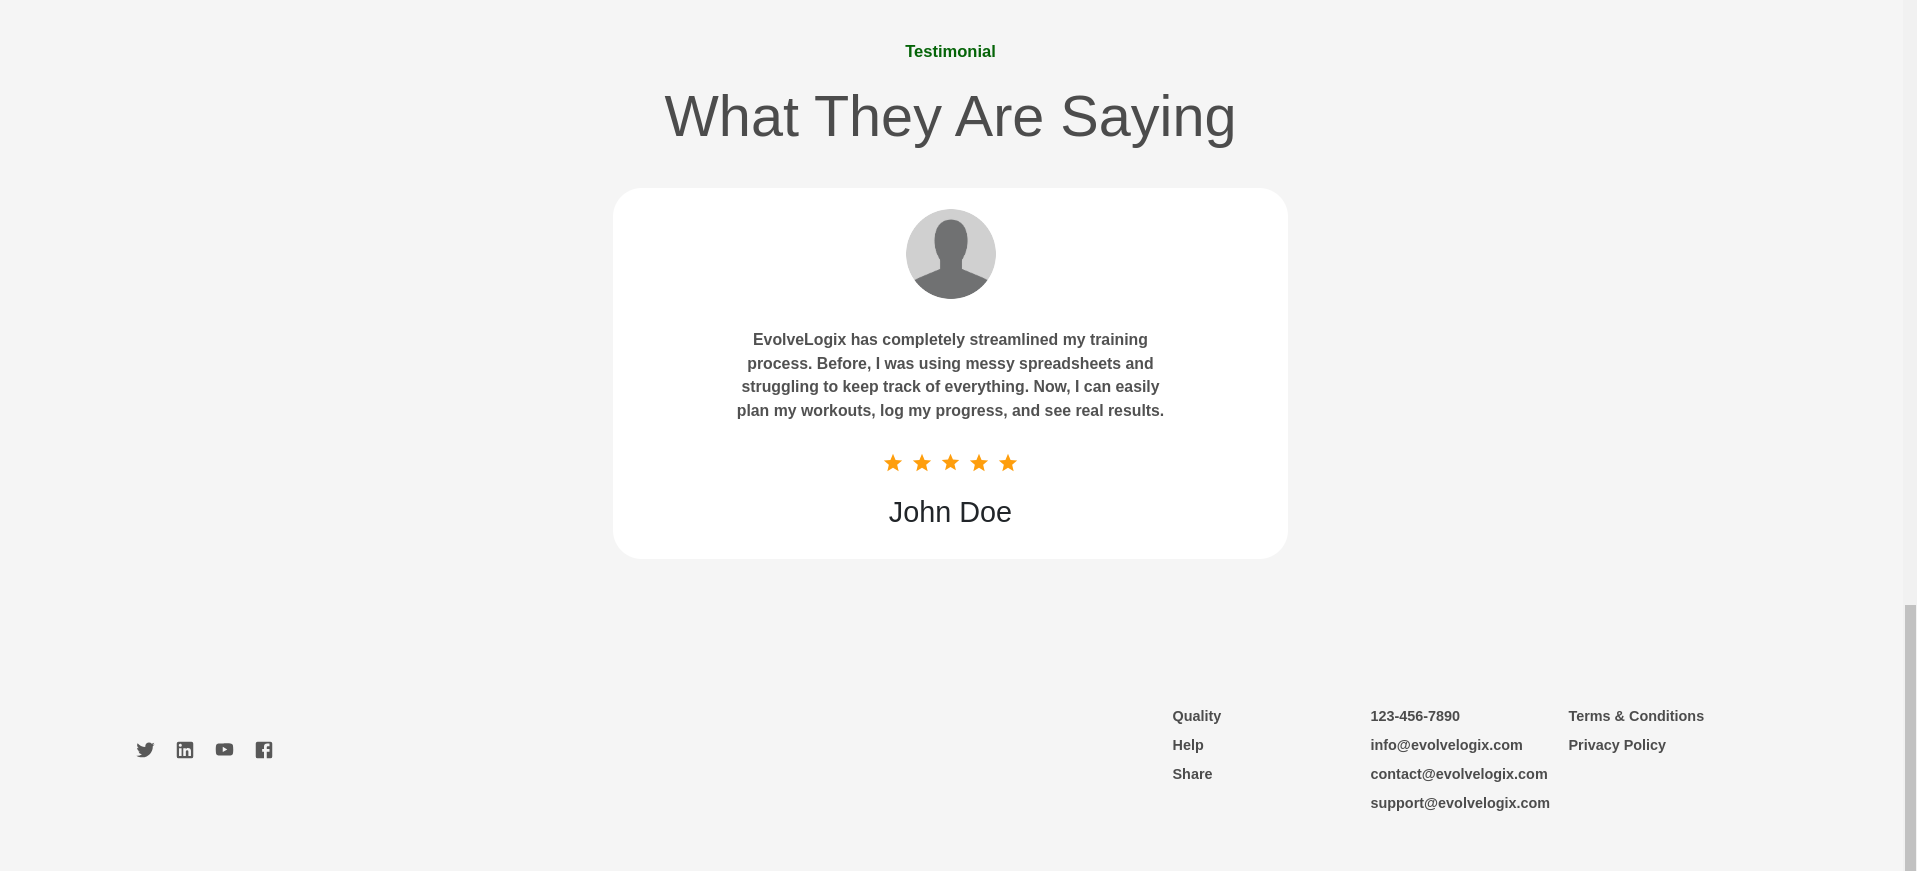
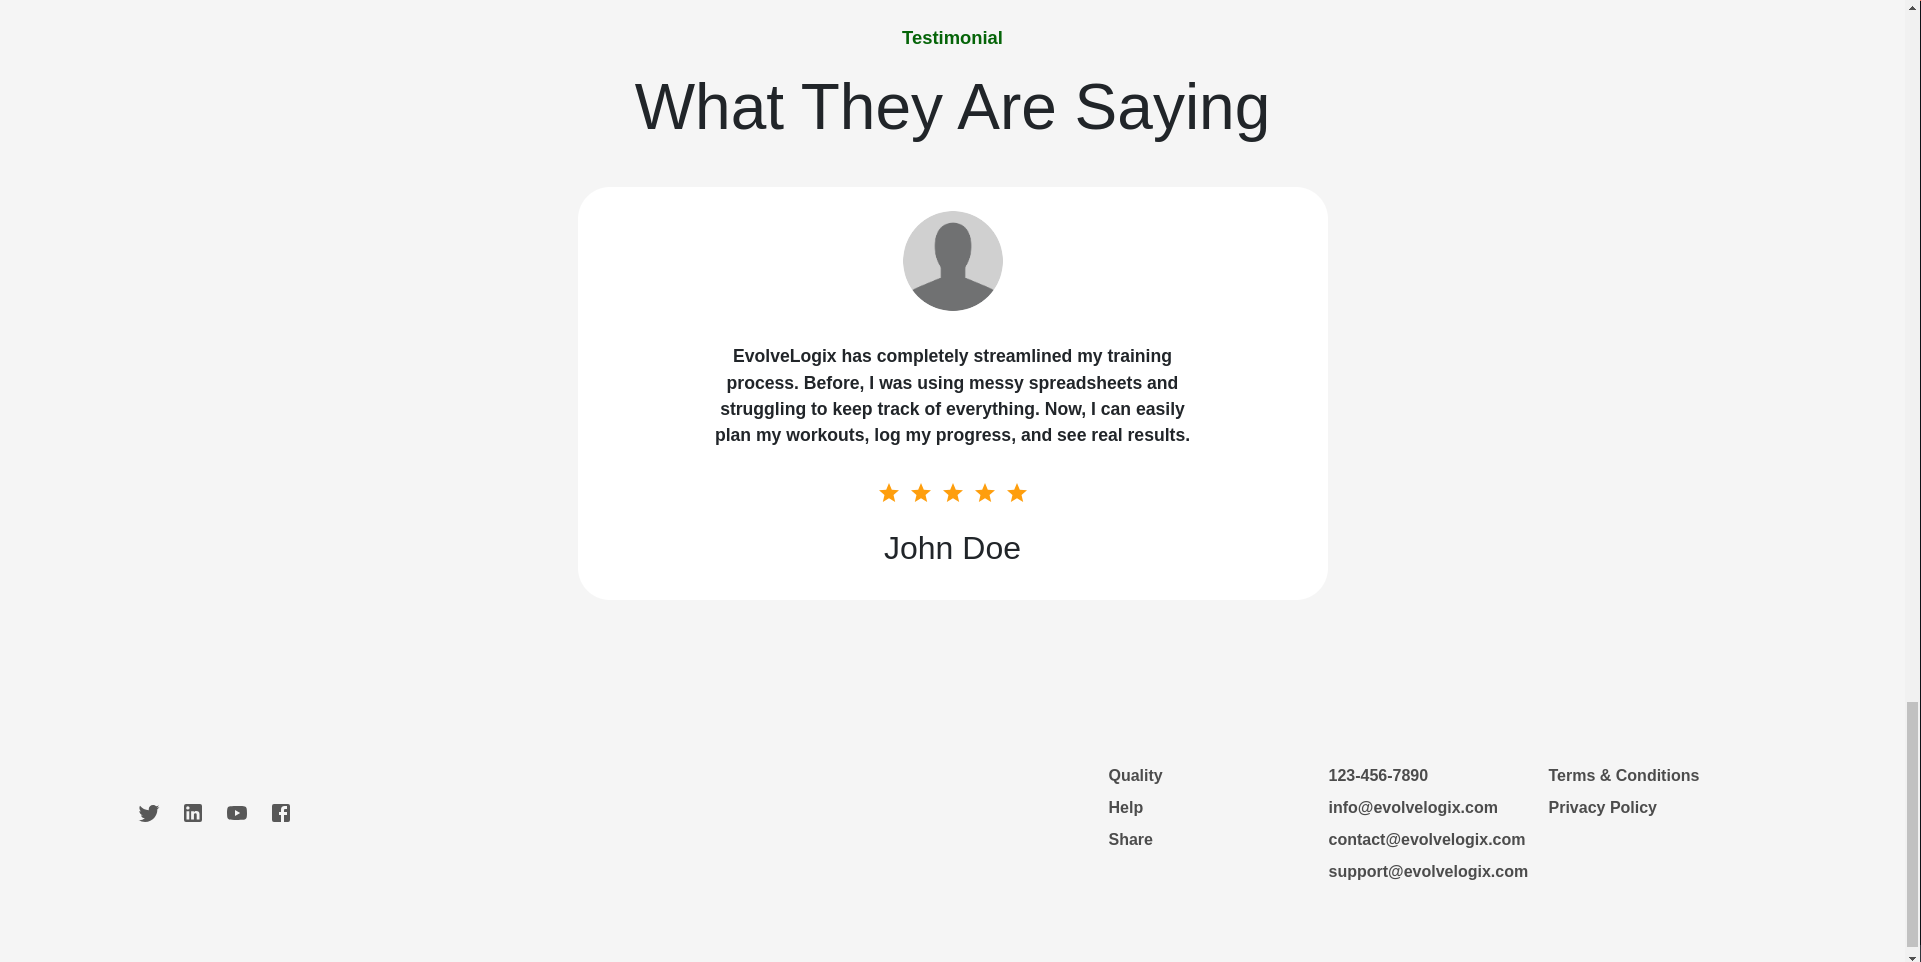
Frontend: Refactor About.css and Work.css for improved layout and styling

diff --git a/frontend/src/features/users/components/HomePage/Work.css b/frontend/src/features/users/components/HomePage/Work.css
@@ -1,19 +1,23 @@
 .work-section-wrapper {
   margin-top: 10rem;
 }
+
 .work-section-top p {
   text-align: center;
   max-width: 700px !important;
 }
+
 .work-section-top h1 {
   max-width: 700px !important;
 }
+
 .work-section-top {
   display: flex;
   justify-content: center;
   align-items: center;
   flex-direction: column;
 }
+
 .work-section-info {
   width: 290px;
   min-height: 350px;
@@ -28,9 +32,11 @@
   color: #505050;
   margin: 1rem 2rem;
 }
+
 .work-section-info h2 {
   margin: 1rem 0rem;
 }
+
 .work-section-bottom {
   margin-top: 5rem;
   display: flex;
@@ -38,6 +44,7 @@
   align-items: center;
   flex-wrap: wrap;
 }
+
 .work-section-info p {
   flex: 1;
   display: flex;
@@ -48,14 +55,12 @@
 .work-primary-text {
   font-size: clamp(1rem, 3vw, 1.5rem);
   max-width: 500px;
-  color: #6a6a6a;
   margin: 1.5rem 0rem;
   text-align: left;
 }
 
 .work-primary-heading {
   font-size: clamp(2rem, 5vw, 4rem);
-  color: #4c4c4c;
   line-height: 5rem;
   max-width: 600px;
 }

diff --git a/frontend/src/features/users/components/HomePage/About.css b/frontend/src/features/users/components/HomePage/About.css
@@ -12,10 +12,9 @@
 }
 
 .about-section-image-container {
-  flex: 1.1;
+  flex: 1.2;
   margin-right: 1rem;
-  width: 100%;
-  max-width: 900px;
+  transform: scale(1.2) translateX(-40px);
 }
 
 .about-section-text-container {
@@ -23,7 +22,7 @@
   flex: 1;
   justify-content: center;
   flex-direction: column;
-  margin-left: 2rem;
+  margin-left: 5rem;
 }
 
 .primary-subheading {
@@ -34,7 +33,6 @@
 
 .about-primary-heading {
   font-size: clamp(2rem, 5vw, 4rem);
-  color: #4c4c4c;
   line-height: 5rem;
   max-width: 600px;
 }
@@ -42,7 +40,6 @@
 .about-primary-text {
   font-size: clamp(1rem, 3vw, 1.5rem);
   max-width: 600px;
-  color: #6a6a6a;
   margin: 1.5rem 0rem;
   text-align: left;
 }
